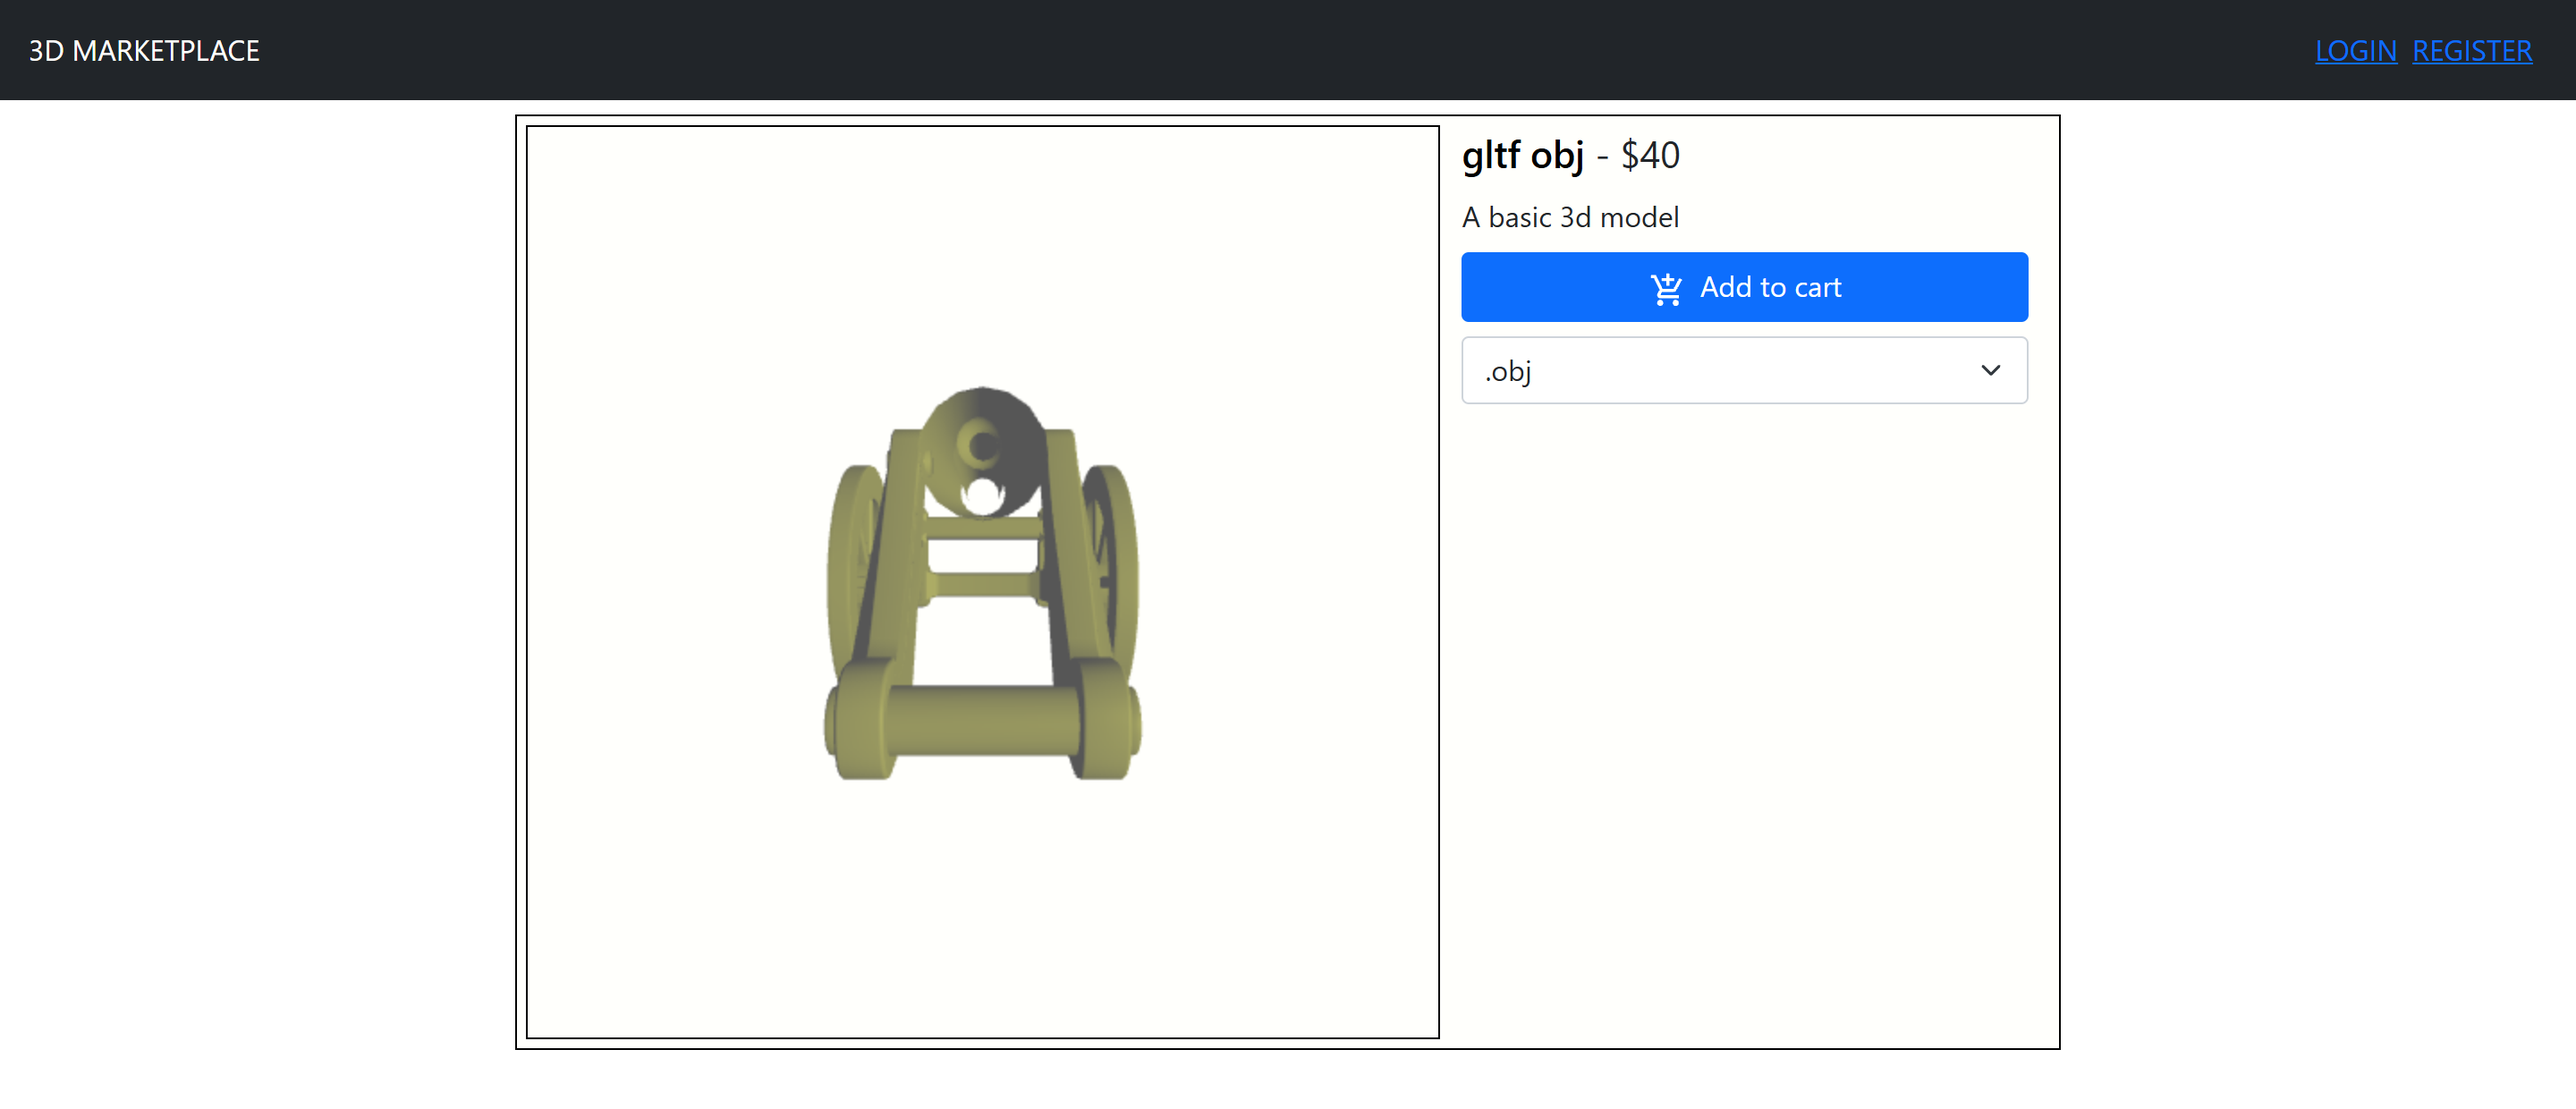
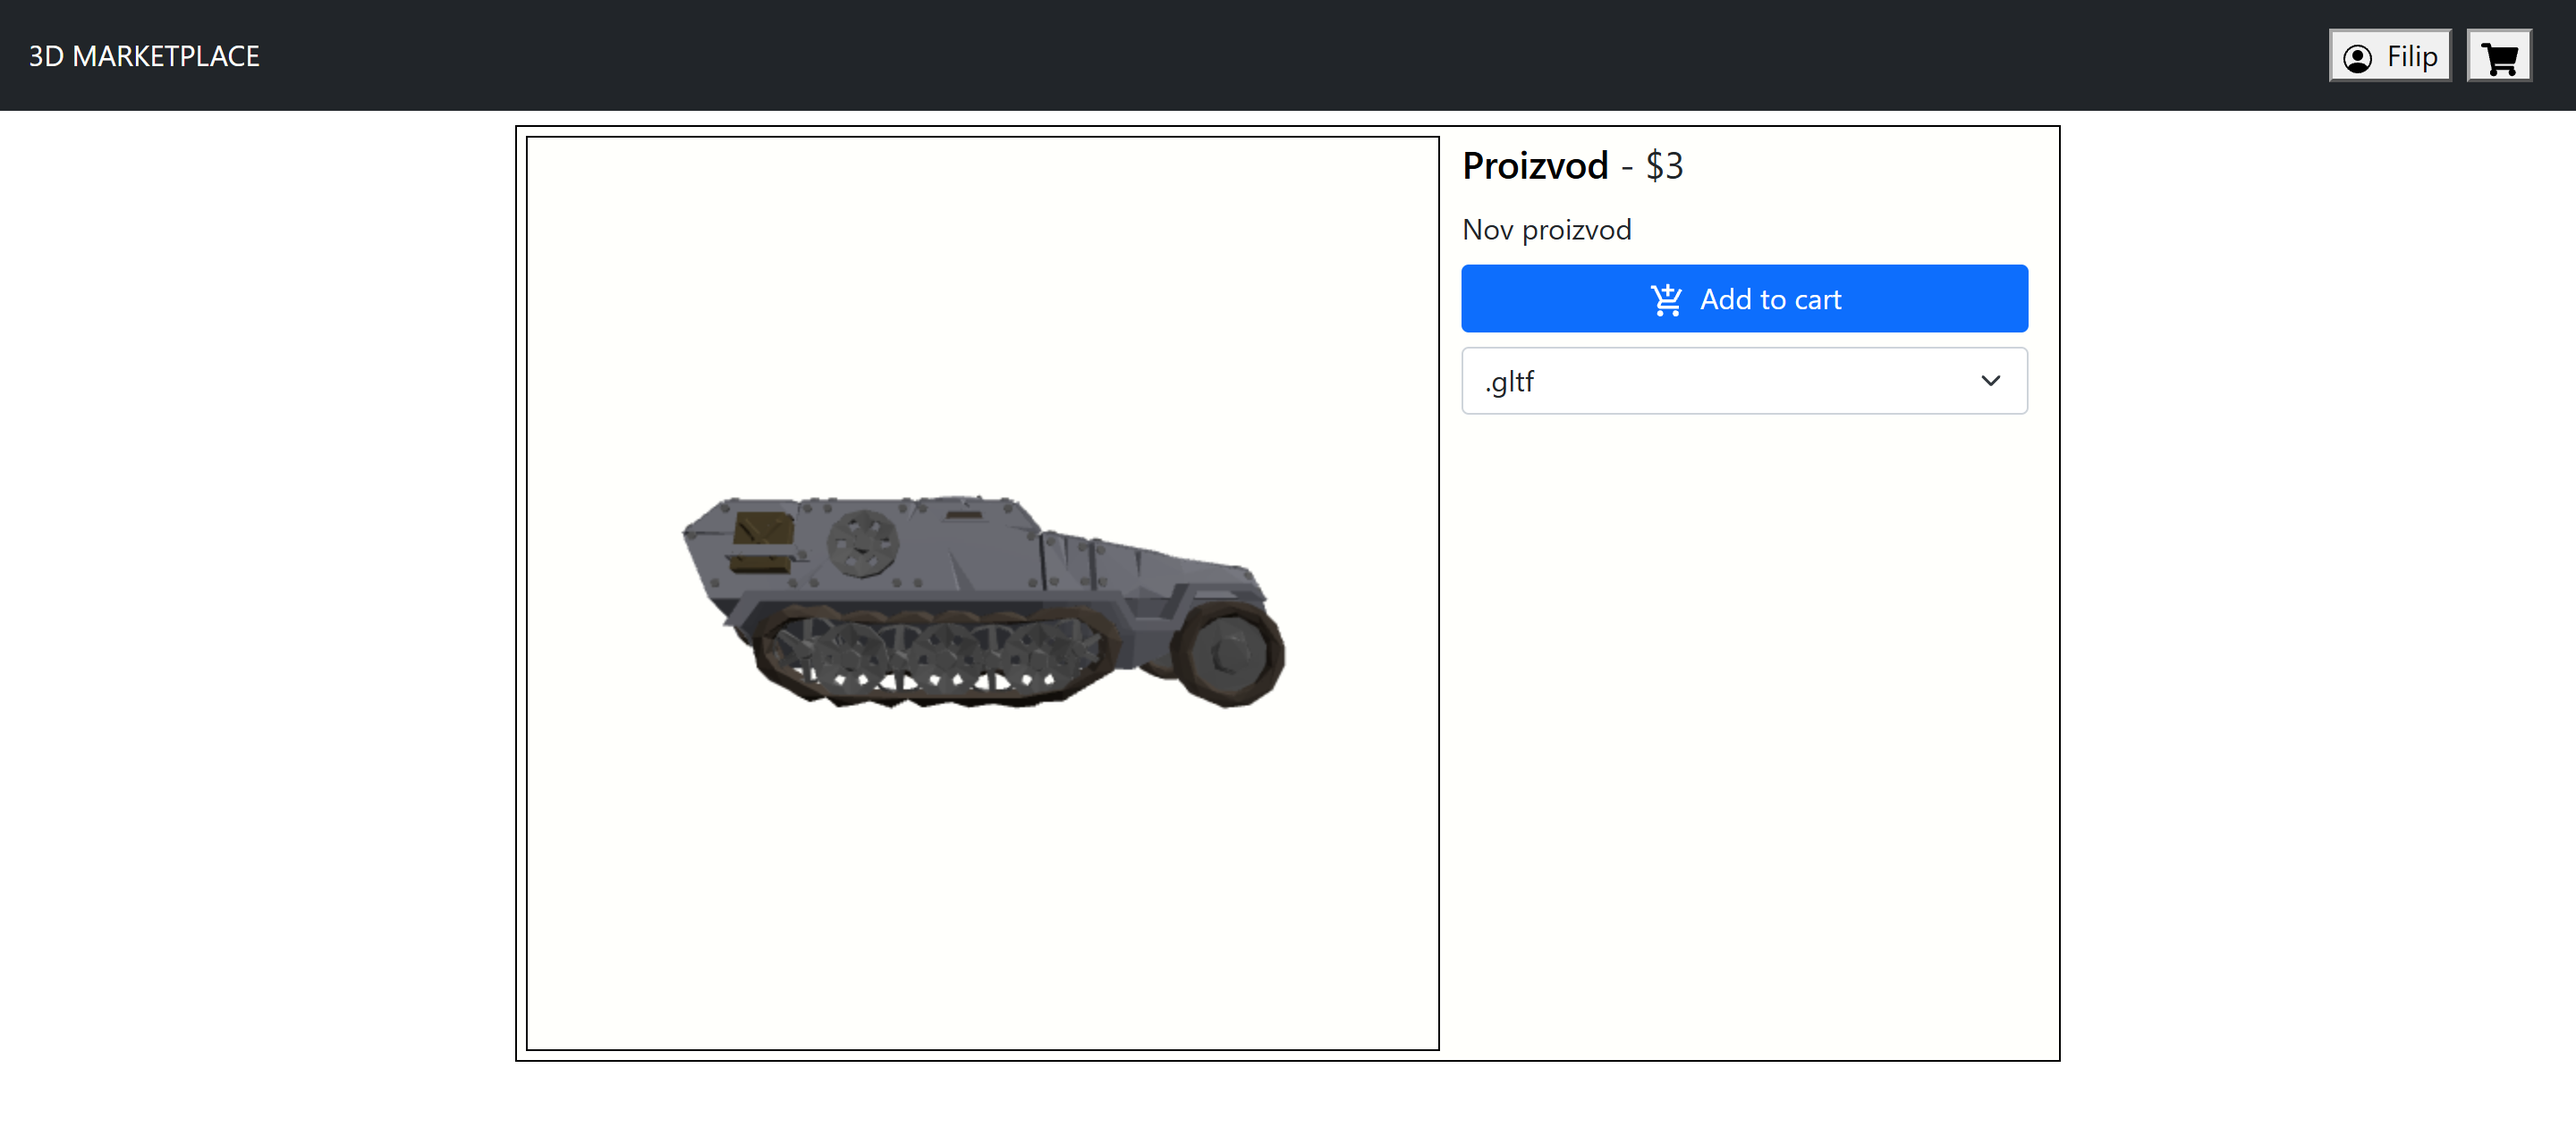
minor fixes and readme update

diff --git a/3d-shop-client/src/components/common/model-displayer/GltfModelDisplayer.jsx b/3d-shop-client/src/components/common/model-displayer/GltfModelDisplayer.jsx
@@ -1,9 +1,9 @@
-import { Canvas, useLoader } from '@react-three/fiber';
+import { Canvas } from '@react-three/fiber';
 import { OrbitControls } from '@react-three/drei';
 import { useGLTF } from '@react-three/drei/core';
 import { API_URL } from '../../../consts';
 import { Fragment } from 'react';
-import { GLTFLoader } from 'three/examples/jsm/loaders/GLTFLoader';
+import useFitToView from './useFitToView';
 
 const GltfModelDisplayer = (props) => {
   let fileUrl;
@@ -12,17 +12,23 @@ const GltfModelDisplayer = (props) => {
   } else {
     fileUrl = props.fileUrl;
   }
-  
+
   const gltf = useGLTF(fileUrl);
+  const { scale, center } = useFitToView(gltf.scene);
 
   let content = (
     <Canvas>
-      <ambientLight intensity={0.1} />
-      <directionalLight color="yellow" position={[3, 0, 3]} intensity={0.2} />
-      <directionalLight color="white" position={[0, 0, 0]} />
-      <>
-        <primitive object={gltf.scene} scale={0.4} />
-      </>
+      {/* Neutral lighting: a coloured key light would misrepresent the asset,
+          but flat lighting hides the form of an untextured model, so this keeps
+          low ambient and a strong angled key to give the geometry shading. */}
+      <ambientLight intensity={0.3} />
+      <directionalLight color="white" position={[4, 5, 3]} intensity={1.1} />
+      <directionalLight color="white" position={[-4, -2, -4]} intensity={0.35} />
+      <group scale={scale}>
+        <group position={center}>
+          <primitive object={gltf.scene} />
+        </group>
+      </group>
       <OrbitControls></OrbitControls>
     </Canvas>
   );

diff --git a/3d-shop-client/src/components/common/model-displayer/ObjModelDisplayer.jsx b/3d-shop-client/src/components/common/model-displayer/ObjModelDisplayer.jsx
@@ -3,6 +3,7 @@ import { OrbitControls } from '@react-three/drei';
 import { OBJLoader } from 'three/examples/jsm/loaders/OBJLoader';
 import { API_URL } from '../../../consts';
 import { Fragment } from 'react';
+import useFitToView from './useFitToView';
 
 const ObjModelDisplayer = (props) => {
   let fileUrl;
@@ -12,15 +13,21 @@ const ObjModelDisplayer = (props) => {
     fileUrl = props.fileUrl;
   }
   const obj = useLoader(OBJLoader, fileUrl);
+  const { scale, center } = useFitToView(obj);
 
   let content = (
     <Canvas>
-      <ambientLight intensity={0.1} />
-      <directionalLight color="yellow" position={[3, 0, 3]} intensity={0.2} />
-      <directionalLight color="blue" position={[0, 0, 0]} />
-      <mesh>
-        <primitive object={obj}></primitive>
-      </mesh>
+      {/* Neutral lighting: a coloured key light would misrepresent the asset,
+          but flat lighting hides the form of an untextured model, so this keeps
+          low ambient and a strong angled key to give the geometry shading. */}
+      <ambientLight intensity={0.3} />
+      <directionalLight color="white" position={[4, 5, 3]} intensity={1.1} />
+      <directionalLight color="white" position={[-4, -2, -4]} intensity={0.35} />
+      <group scale={scale}>
+        <group position={center}>
+          <primitive object={obj}></primitive>
+        </group>
+      </group>
       <OrbitControls></OrbitControls>
     </Canvas>
   );

diff --git a/3d-shop-client/src/components/common/model-displayer/useFitToView.js b/3d-shop-client/src/components/common/model-displayer/useFitToView.js
@@ -1,0 +1,35 @@
+import { useMemo } from 'react';
+import { Box3, Vector3 } from 'three';
+
+// The camera sits at a fixed distance, so a model only looks right if it happens
+// to be authored at roughly the size the camera expects. Uploaded models are not:
+// the sample assets range from 0.4 to 5 units across, which renders one of them as
+// a speck and would push a larger one out of frame. Measure the model instead and
+// return the scale and offset that centre it and make it fill the view.
+// Sized against the default camera, which sits at z=5 with a 75 degree field of
+// view and so sees roughly 7.7 units of height at the origin. This fills about
+// two thirds of that, leaving room to orbit without clipping.
+const TARGET_SIZE = 4.5;
+
+export default function useFitToView(object) {
+  return useMemo(() => {
+    if (!object) {
+      return { scale: 1, center: [0, 0, 0] };
+    }
+
+    const box = new Box3().setFromObject(object);
+
+    if (box.isEmpty()) {
+      return { scale: 1, center: [0, 0, 0] };
+    }
+
+    const size = box.getSize(new Vector3());
+    const center = box.getCenter(new Vector3());
+    const largestSide = Math.max(size.x, size.y, size.z);
+
+    return {
+      scale: largestSide > 0 ? TARGET_SIZE / largestSide : 1,
+      center: [-center.x, -center.y, -center.z],
+    };
+  }, [object]);
+}

diff --git a/3d-shop-client/src/service/features/cartSlice.test.js b/3d-shop-client/src/service/features/cartSlice.test.js
@@ -1,0 +1,42 @@
+import reducer, { addToCart, clearCart } from './cartSlice';
+
+const product = (id, price) => ({ id, price, name: `Product ${id}` });
+
+describe('cart reducer', () => {
+  it('starts empty', () => {
+    expect(reducer(undefined, { type: '@@INIT' })).toMatchObject({
+      products: [],
+      total: 0,
+    });
+  });
+
+  it('adds a product and accumulates the total', () => {
+    const state = reducer(undefined, addToCart(product(1, '40')));
+
+    expect(state.products).toHaveLength(1);
+    expect(state.total).toBe(40);
+  });
+
+  it('sums the prices of several products', () => {
+    let state = reducer(undefined, addToCart(product(1, '40')));
+    state = reducer(state, addToCart(product(2, '3')));
+
+    expect(state.products.map((p) => p.id)).toEqual([1, 2]);
+    expect(state.total).toBe(43);
+  });
+
+  it('ignores a product that is already in the cart', () => {
+    let state = reducer(undefined, addToCart(product(1, '40')));
+    state = reducer(state, addToCart(product(1, '40')));
+
+    expect(state.products).toHaveLength(1);
+    expect(state.total).toBe(40);
+  });
+
+  it('empties the cart on clearCart', () => {
+    let state = reducer(undefined, addToCart(product(1, '40')));
+    state = reducer(state, clearCart());
+
+    expect(state).toMatchObject({ products: [], total: 0 });
+  });
+});

diff --git a/3d-shop-client/src/components/pages/product-upload/ProductUpload.jsx b/3d-shop-client/src/components/pages/product-upload/ProductUpload.jsx
@@ -57,27 +57,39 @@ const ProductUploadPage = () => {
     var file = e.target.files[0];
     setGltfProductFile(file);
 
-    fileToDataUri(file).then((uri) => {
-      setGltfModelUri(uri);
-    });
+    fileToDataUri(file)
+      .then((uri) => {
+        setGltfModelUri(uri);
+      })
+      .catch(() => {
+        toast.error('Could not read the .gltf model. Please pick the file again.');
+      });
   };
 
   const handleObjModelAttachment = (e) => {
     var file = e.target.files[0];
     setObjProductFile(file);
 
-    fileToDataUri(file).then((uri) => {
-      setObjModelUri(uri);
-    });
+    fileToDataUri(file)
+      .then((uri) => {
+        setObjModelUri(uri);
+      })
+      .catch(() => {
+        toast.error('Could not read the .obj model. Please pick the file again.');
+      });
   };
 
   const handleThumbnailAttachment = (e) => {
     var file = e.target.files[0];
     setProductThumbnail(file);
 
-    fileToDataUri(file).then((uri) => {
-      setThumbnailUri(uri);
-    });
+    fileToDataUri(file)
+      .then((uri) => {
+        setThumbnailUri(uri);
+      })
+      .catch(() => {
+        toast.error('Could not read the thumbnail. Please pick the file again.');
+      });
   };
 
   let gltfProductPreview;

diff --git a/3d-shop-client/src/service/api/axiosClient.js b/3d-shop-client/src/service/api/axiosClient.js
@@ -1,9 +1,10 @@
 import axios from 'axios';
-import localStorage from 'redux-persist/es/storage';
 
 const axiosClient = axios.create();
 
-axiosClient.defaults.baseURL = 'http://localhost:8000';
+// Root-relative. Callers pass paths both with and without a leading slash, and
+// axios normalises either against this base into an absolute path.
+axiosClient.defaults.baseURL = '/';
 
 // Default timeout for requests in miliseconds
 axiosClient.defaults.timeout = 15000;
@@ -47,10 +48,4 @@ export function patchRequest(URL, payload) {
 
 export function deleteRequest(URL) {
   return axiosClient.delete(`/${URL}`).then((response) => response);
-}
-
-export function setAxiosBearerToken(token) {
-  localStorage.setItem('token', token);
-  // console.log(localStorage.getItem('token'));
-  axiosClient.defaults.headers.common['Authorization'] = `Bearer ${token}`;
 }

diff --git a/3d-shop-client/src/service/util/fileToDataUri.jsx b/3d-shop-client/src/service/util/fileToDataUri.jsx
@@ -1,9 +1,24 @@
+// Reads a picked file into memory as a data URI, so a model can be previewed
+// before it is uploaded. Browsers do not allow reading it straight off disk.
+//
+// FileReader can fail, most commonly when the file has been moved or renamed
+// since the user picked it. Without an error path the promise never settles and
+// the picker silently does nothing, so both failure events reject here.
 export const fileToDataUri = (file) =>
   new Promise((resolve, reject) => {
     const reader = new FileReader();
+
     reader.onload = (event) => {
       resolve(event.target.result);
     };
+
+    reader.onerror = () => {
+      reject(reader.error || new Error('The file could not be read.'));
+    };
+
+    reader.onabort = () => {
+      reject(new Error('Reading the file was cancelled.'));
+    };
+
     reader.readAsDataURL(file);
   });
-

diff --git a/3d-shop-client/src/components/pages/register/RegisterPage.jsx b/3d-shop-client/src/components/pages/register/RegisterPage.jsx
@@ -2,7 +2,7 @@ import { useState } from 'react';
 import { Button } from 'react-bootstrap';
 import { useDispatch, useSelector } from 'react-redux';
 import { useNavigate } from 'react-router-dom';
-import authSlice, { postRegisterData } from '../../../service/features/authSlice';
+import { postRegisterData } from '../../../service/features/authSlice';
 import { toast } from 'react-toastify';
 import { useEffect } from 'react';
 
@@ -51,7 +51,7 @@ const RegisterPage = () => {
       <div className="container-fluid my-auto form_max_width">
         <div className="row mt-1">
           <div className="col">
-            <h1>Registertration Form</h1>
+            <h1>Registration Form</h1>
           </div>
         </div>
         <div className="row mt-1">

diff --git a/3d-shop-client/src/service/features/productUploadSlice.js b/3d-shop-client/src/service/features/productUploadSlice.js
@@ -7,7 +7,7 @@ const initialState = {
   uploadedProduct: null,
 };
 
-export const productUploadSlcie = createSlice({
+export const productUploadSlice = createSlice({
   name: 'productUpload',
   initialState: initialState,
   reducers: {
@@ -31,9 +31,9 @@ export const productUploadSlcie = createSlice({
   },
 });
 
-export default productUploadSlcie.reducer;
+export default productUploadSlice.reducer;
 
-export const { clearUploadState } = productUploadSlcie.actions;
+export const { clearUploadState } = productUploadSlice.actions;
 
 export const uploadProduct = createAsyncThunk(
   'product/upload',

diff --git a/3d-shop-client/src/components/pages/product-view/SingleProductView.jsx b/3d-shop-client/src/components/pages/product-view/SingleProductView.jsx
@@ -158,7 +158,7 @@ const SingleProductView = () => {
                 <div className="col">
                   <select
                     className="form-select"
-                    value={selectedFileType.value}
+                    value={selectedFileType}
                     onChange={(e) => handleFiletypeSelectionChange(e)}
                   >
                     <option disabled={product.obj_file_path == null} value="obj">

diff --git a/3d-shop-client/src/consts.js b/3d-shop-client/src/consts.js
@@ -1,2 +1,5 @@
-export const API_URL = 'http://localhost:8000';
+// Relative, so the app is always same-origin: in development the CRA dev server
+// proxies /api, /storage and /sanctum to the API (see "proxy" in package.json).
+// This keeps the three.js loaders, which fetch model files over XHR, out of CORS.
+export const API_URL = '';
 export const CONSENT_COOKIE_NAME = 'userConsentToUsingCookies';

diff --git a/3d-shop-client/src/components/common/product-preview/ProductOverview.jsx b/3d-shop-client/src/components/common/product-preview/ProductOverview.jsx
@@ -11,7 +11,7 @@ const ProductOverview = (product) => {
           <img
             src={thumbnailPath}
             className="product-thumbnail"
-            alt="Thumbnail not availbale"
+            alt={`${product.name} thumbnail`}
           ></img>
         </div>
         <div className="row">
